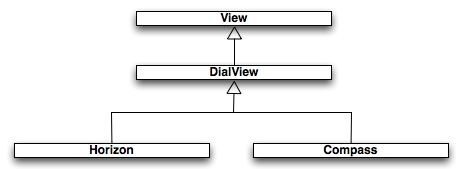
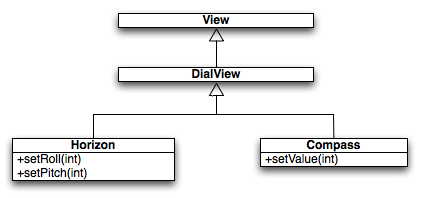
Adding CompassObjectDiag and some simplification in Compass and Horizon.

Changed region(s): [[0.0, 0.0592, 0.9811, 1.0]]

diff --git a/src/jmp/ui/component/dial/test/TestHorizonComponent.java b/src/jmp/ui/component/dial/test/TestHorizonComponent.java
@@ -2,6 +2,7 @@ package jmp.ui.component.dial.test;
 
 import java.awt.BorderLayout;
 import java.awt.EventQueue;
+import java.awt.Label;
 import java.awt.event.WindowEvent;
 import javax.swing.BoxLayout;
 import javax.swing.JFrame;
@@ -10,10 +11,7 @@ import javax.swing.JSlider;
 import javax.swing.event.ChangeEvent;
 import javax.swing.event.ChangeListener;
 
-import jmp.ui.component.dial.DialView;
 import jmp.ui.component.dial.aircraft.Horizon;
-import jmp.ui.model.DefaultBoundedModel;
-import jmp.ui.model.DefaultModelComposit;
 
 
 public class TestHorizonComponent extends JFrame
@@ -23,7 +21,7 @@ public class TestHorizonComponent extends JFrame
 	private JSlider progressSliderRoll;
 
 	private JPanel componentsPane;
-	private DialView dialView;
+	private Horizon horizon;
 	
 	public TestHorizonComponent()
 	{
@@ -69,7 +67,7 @@ public class TestHorizonComponent extends JFrame
 				JSlider s = (JSlider) source;
 				if (!s.getValueIsAdjusting());
 				{
-					((DefaultBoundedModel) ((DefaultModelComposit) dialView.getModel()).getModel("pitch")).setValue(progressSliderPitch.getValue());
+					horizon.setPitch(progressSliderPitch.getValue());
 				}
 			}
 		});
@@ -93,7 +91,7 @@ public class TestHorizonComponent extends JFrame
 				JSlider s = (JSlider) source;
 				if (!s.getValueIsAdjusting());
 				{
-					((DefaultBoundedModel) ((DefaultModelComposit) dialView.getModel()).getModel("roll")).setValue(progressSliderRoll.getValue());
+					horizon.setRoll(progressSliderRoll.getValue());
 				}
 			}
 		});
@@ -107,8 +105,8 @@ public class TestHorizonComponent extends JFrame
 		this.componentsPane = new JPanel();
 		this.componentsPane.setLayout(new BoxLayout(this.componentsPane, BoxLayout.X_AXIS));
 		
-		this.dialView = new Horizon();
-		this.componentsPane.add(this.dialView);
+		this.horizon = new Horizon();
+		this.componentsPane.add(this.horizon);
 
 		this.getContentPane().add(this.componentsPane, BorderLayout.CENTER);
 	}

diff --git a/src/jmp/ui/component/dial/test/TestCompassComponent.java b/src/jmp/ui/component/dial/test/TestCompassComponent.java
@@ -20,7 +20,7 @@ public class TestCompassComponent extends JFrame
 	private JSlider progressSlider;
 
 	private JPanel componentsPane;
-	private DialView dialView;
+	private Compass compass;
 	
 	public TestCompassComponent()
 	{
@@ -65,7 +65,7 @@ public class TestCompassComponent extends JFrame
 				JSlider s = (JSlider) source;
 				if (!s.getValueIsAdjusting());
 				{
-					dialView.valueModel().setValue(progressSlider.getValue());
+					compass.setValue(progressSlider.getValue());
 				}
 			}
 		});
@@ -79,8 +79,8 @@ public class TestCompassComponent extends JFrame
 		this.componentsPane = new JPanel();
 		this.componentsPane.setLayout(new BoxLayout(this.componentsPane, BoxLayout.X_AXIS));
 		
-		this.dialView = new Compass();
-		this.componentsPane.add(this.dialView);
+		this.compass = new Compass();
+		this.componentsPane.add(this.compass);
 
 		this.getContentPane().add(this.componentsPane, BorderLayout.CENTER);
 	}

diff --git a/src/jmp/ui/component/dial/aircraft/Horizon.java b/src/jmp/ui/component/dial/aircraft/Horizon.java
@@ -5,6 +5,7 @@ import jmp.ui.component.dial.model.DialBorderRenderingModel;
 import jmp.ui.component.dial.model.DialHorizonRenderingModel;
 import jmp.ui.component.dial.model.DialTicksRenderingModel;
 import jmp.ui.component.dial.renderer.DialHorizonRenderer;
+import jmp.ui.model.BoundedModel;
 import jmp.ui.model.DefaultBoundedModel;
 import jmp.ui.model.DefaultModelComposit;
 import jmp.ui.mvc.Model;
@@ -25,5 +26,13 @@ public class Horizon extends DialView {
 		model.addModel("pitch", new DefaultBoundedModel(-180,180,0));
 		model.addModel("roll", new DefaultBoundedModel(-100,100,0));
 		return model;
+	}
+	public void setRoll(int roll)
+	{
+		((BoundedModel) ((DefaultModelComposit) getModel()).getModel("roll")).setValue(roll);
+	}
+	public void setPitch(int pitch)
+	{
+		((BoundedModel) ((DefaultModelComposit) getModel()).getModel("pitch")).setValue(pitch);
 	}
 }

diff --git a/src/jmp/ui/component/dial/test/TestDialPartialComponent.java b/src/jmp/ui/component/dial/test/TestDialPartialComponent.java
@@ -103,7 +103,7 @@ public class TestDialPartialComponent extends JFrame
 		model.addModel("border", new DialBorderRenderingModel());
 		model.addModel("label", new DialLabelRenderingModel());
 		model.addModel("ticks", ticksModel);
-		model.addModel("value", new DefaultBoundedModel(0,20,0));
+		model.addModel("value", new DefaultBoundedModel(0,100,0));
 		this.dialView.setModel(model);
 		
 		this.componentsPane.add(this.dialView);

diff --git a/src/jmp/ui/component/dial/model/DialLabelRenderingModel.java b/src/jmp/ui/component/dial/model/DialLabelRenderingModel.java
@@ -6,7 +6,7 @@ import java.awt.Font;
 public class DialLabelRenderingModel extends DialRenderingModel {
 
 	final static String DEFAULT_LABEL = "DIAL";
-	final static Color DEFAULT_COLOR = Color.PINK;
+	final static Color DEFAULT_COLOR = Color.BLACK;
 	final static Font DEFAULT_FONT = new Font("Monospaced", Font.PLAIN, 18);
 	
 	private String label;

diff --git a/src/jmp/ui/component/dial/aircraft/drone/Compass.java b/src/jmp/ui/component/dial/aircraft/drone/Compass.java
@@ -26,4 +26,8 @@ public class Compass extends DialView{
 		model.addModel(VALUE_MODEL, new DefaultBoundedModel(0,360,0));
 		return model;
 	}
+	public void setValue(int value)
+	{
+		valueModel().setValue(value);
+	}
 }
